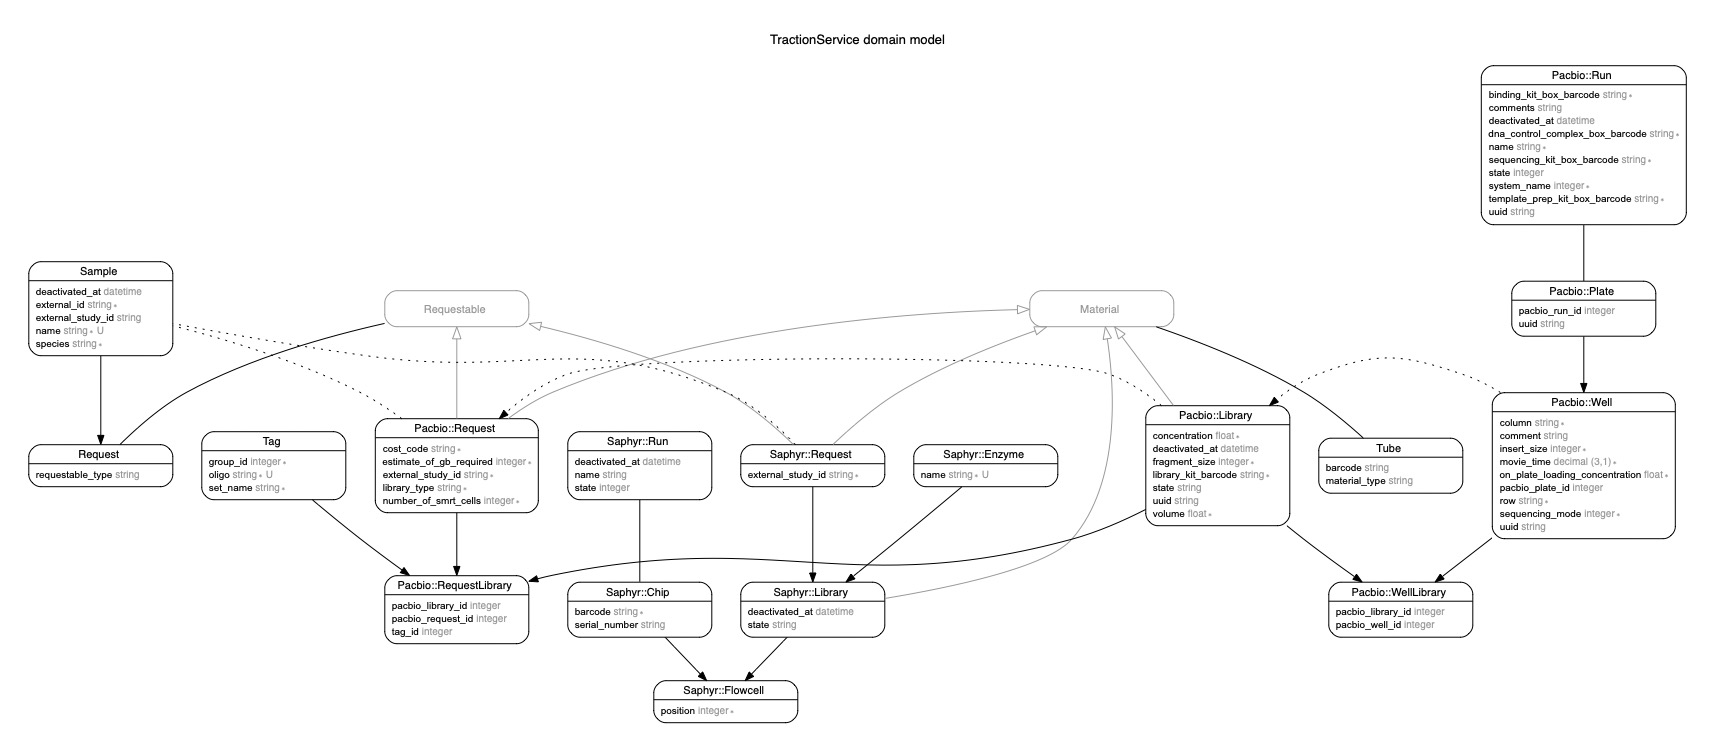
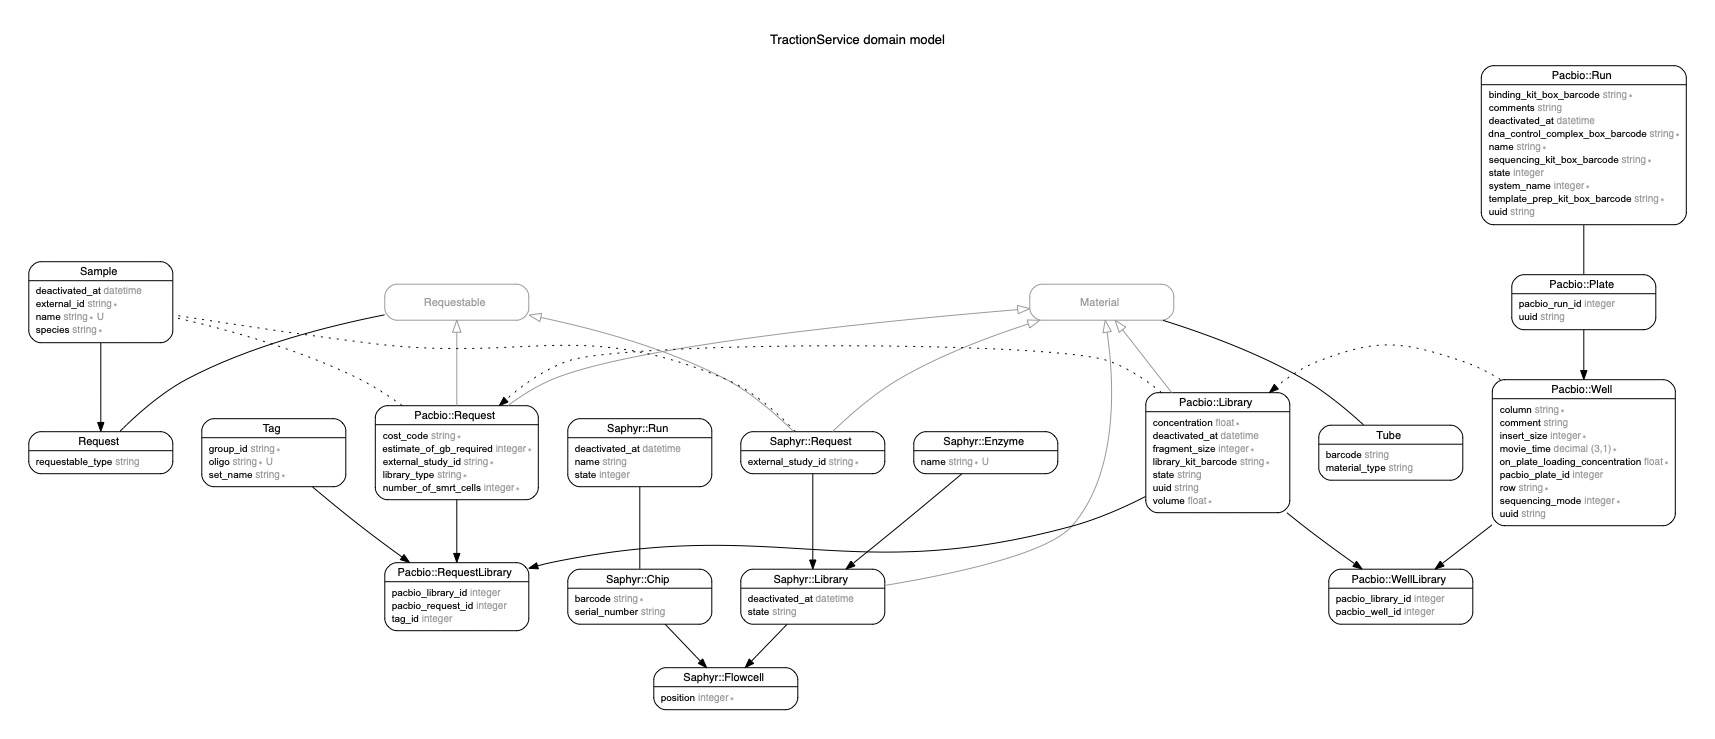
Update tag set
Change group_id to string, create first set of tags rake, change group id to be unique

diff --git a/db/schema.rb b/db/schema.rb
@@ -10,7 +10,7 @@
 #
 # It's strongly recommended that you check this file into your version control system.
 
-ActiveRecord::Schema.define(version: 2019_11_06_134558) do
+ActiveRecord::Schema.define(version: 2019_11_11_115438) do
 
   create_table "pacbio_libraries", force: :cascade do |t|
     t.float "volume"
@@ -102,7 +102,6 @@ ActiveRecord::Schema.define(version: 2019_11_06_134558) do
     t.string "name"
     t.datetime "deactivated_at"
     t.string "external_id"
-    t.string "external_study_id"
     t.string "species"
     t.datetime "created_at", null: false
     t.datetime "updated_at", null: false
@@ -160,7 +159,7 @@ ActiveRecord::Schema.define(version: 2019_11_06_134558) do
 
   create_table "tags", force: :cascade do |t|
     t.string "oligo"
-    t.integer "group_id"
+    t.string "group_id"
     t.string "set_name"
     t.datetime "created_at", null: false
     t.datetime "updated_at", null: false

diff --git a/spec/requests/v1/pacbio/libraries_spec.rb b/spec/requests/v1/pacbio/libraries_spec.rb
@@ -43,7 +43,7 @@ RSpec.describe 'LibrariesController', type: :request, pacbio: true do
       expect(request['sample_name']).to eq(request_library.sample_name)
       expect(request['tag_id'].to_s).to eq(request_library.tag_id.to_s)
       expect(request['tag_set_name']).to eq(request_library.tag_set_name)
-      expect(request['tag_group_id'].to_s).to eq(request_library.tag_group_id.to_s)
+      expect(request['tag_group_id']).to eq(request_library.tag_group_id)
       expect(request['tag_oligo'].to_s).to eq(request_library.tag_oligo)
 
       expect(json['data'][1]['attributes']['volume']).to eq(library2.volume)

diff --git a/spec/models/tag_spec.rb b/spec/models/tag_spec.rb
@@ -6,8 +6,14 @@ RSpec.describe Tag, type: :model do
     expect(build(:tag, oligo: nil)).to_not be_valid
   end
 
-  it 'is not valud without a group id' do
+  it 'is not valid without a group id' do
     expect(build(:tag, group_id: nil)).to_not be_valid
+  end
+
+  it 'group id should be unique within set' do
+    tag = create(:tag)
+    expect(build(:tag, group_id: tag.group_id, set_name: 'another set')).to be_valid
+    expect(build(:tag, group_id: tag.group_id, set_name: tag.set_name)).to_not be_valid
   end
 
   it 'is not valid without a set name' do

diff --git a/app/models/tag.rb b/app/models/tag.rb
@@ -6,4 +6,7 @@ class Tag < ApplicationRecord
 
   validates :oligo, uniqueness: { scope: :set_name,
                                   message: 'oligo should only appear once within set' }
+
+  validates :group_id, uniqueness: { scope: :set_name,
+                                     message: 'group id should only appear once within set' }
 end

diff --git a/spec/factories/tags.rb b/spec/factories/tags.rb
@@ -1,7 +1,7 @@
 FactoryBot.define do
   factory :tag do
     sequence(:oligo) { |n| ['A','C','G','T','A','C','G','T',n].shuffle[0,8].join }
-    group_id { 1 }
+    sequence(:group_id) {|n| n}
     set_name { 'pipeline1' }
   end
 end

diff --git a/db/migrate/20191111115438_change_tag_group_id.rb b/db/migrate/20191111115438_change_tag_group_id.rb
@@ -1,0 +1,5 @@
+class ChangeTagGroupId < ActiveRecord::Migration[5.2]
+  def change
+    change_column :tags, :group_id, :string
+  end
+end
